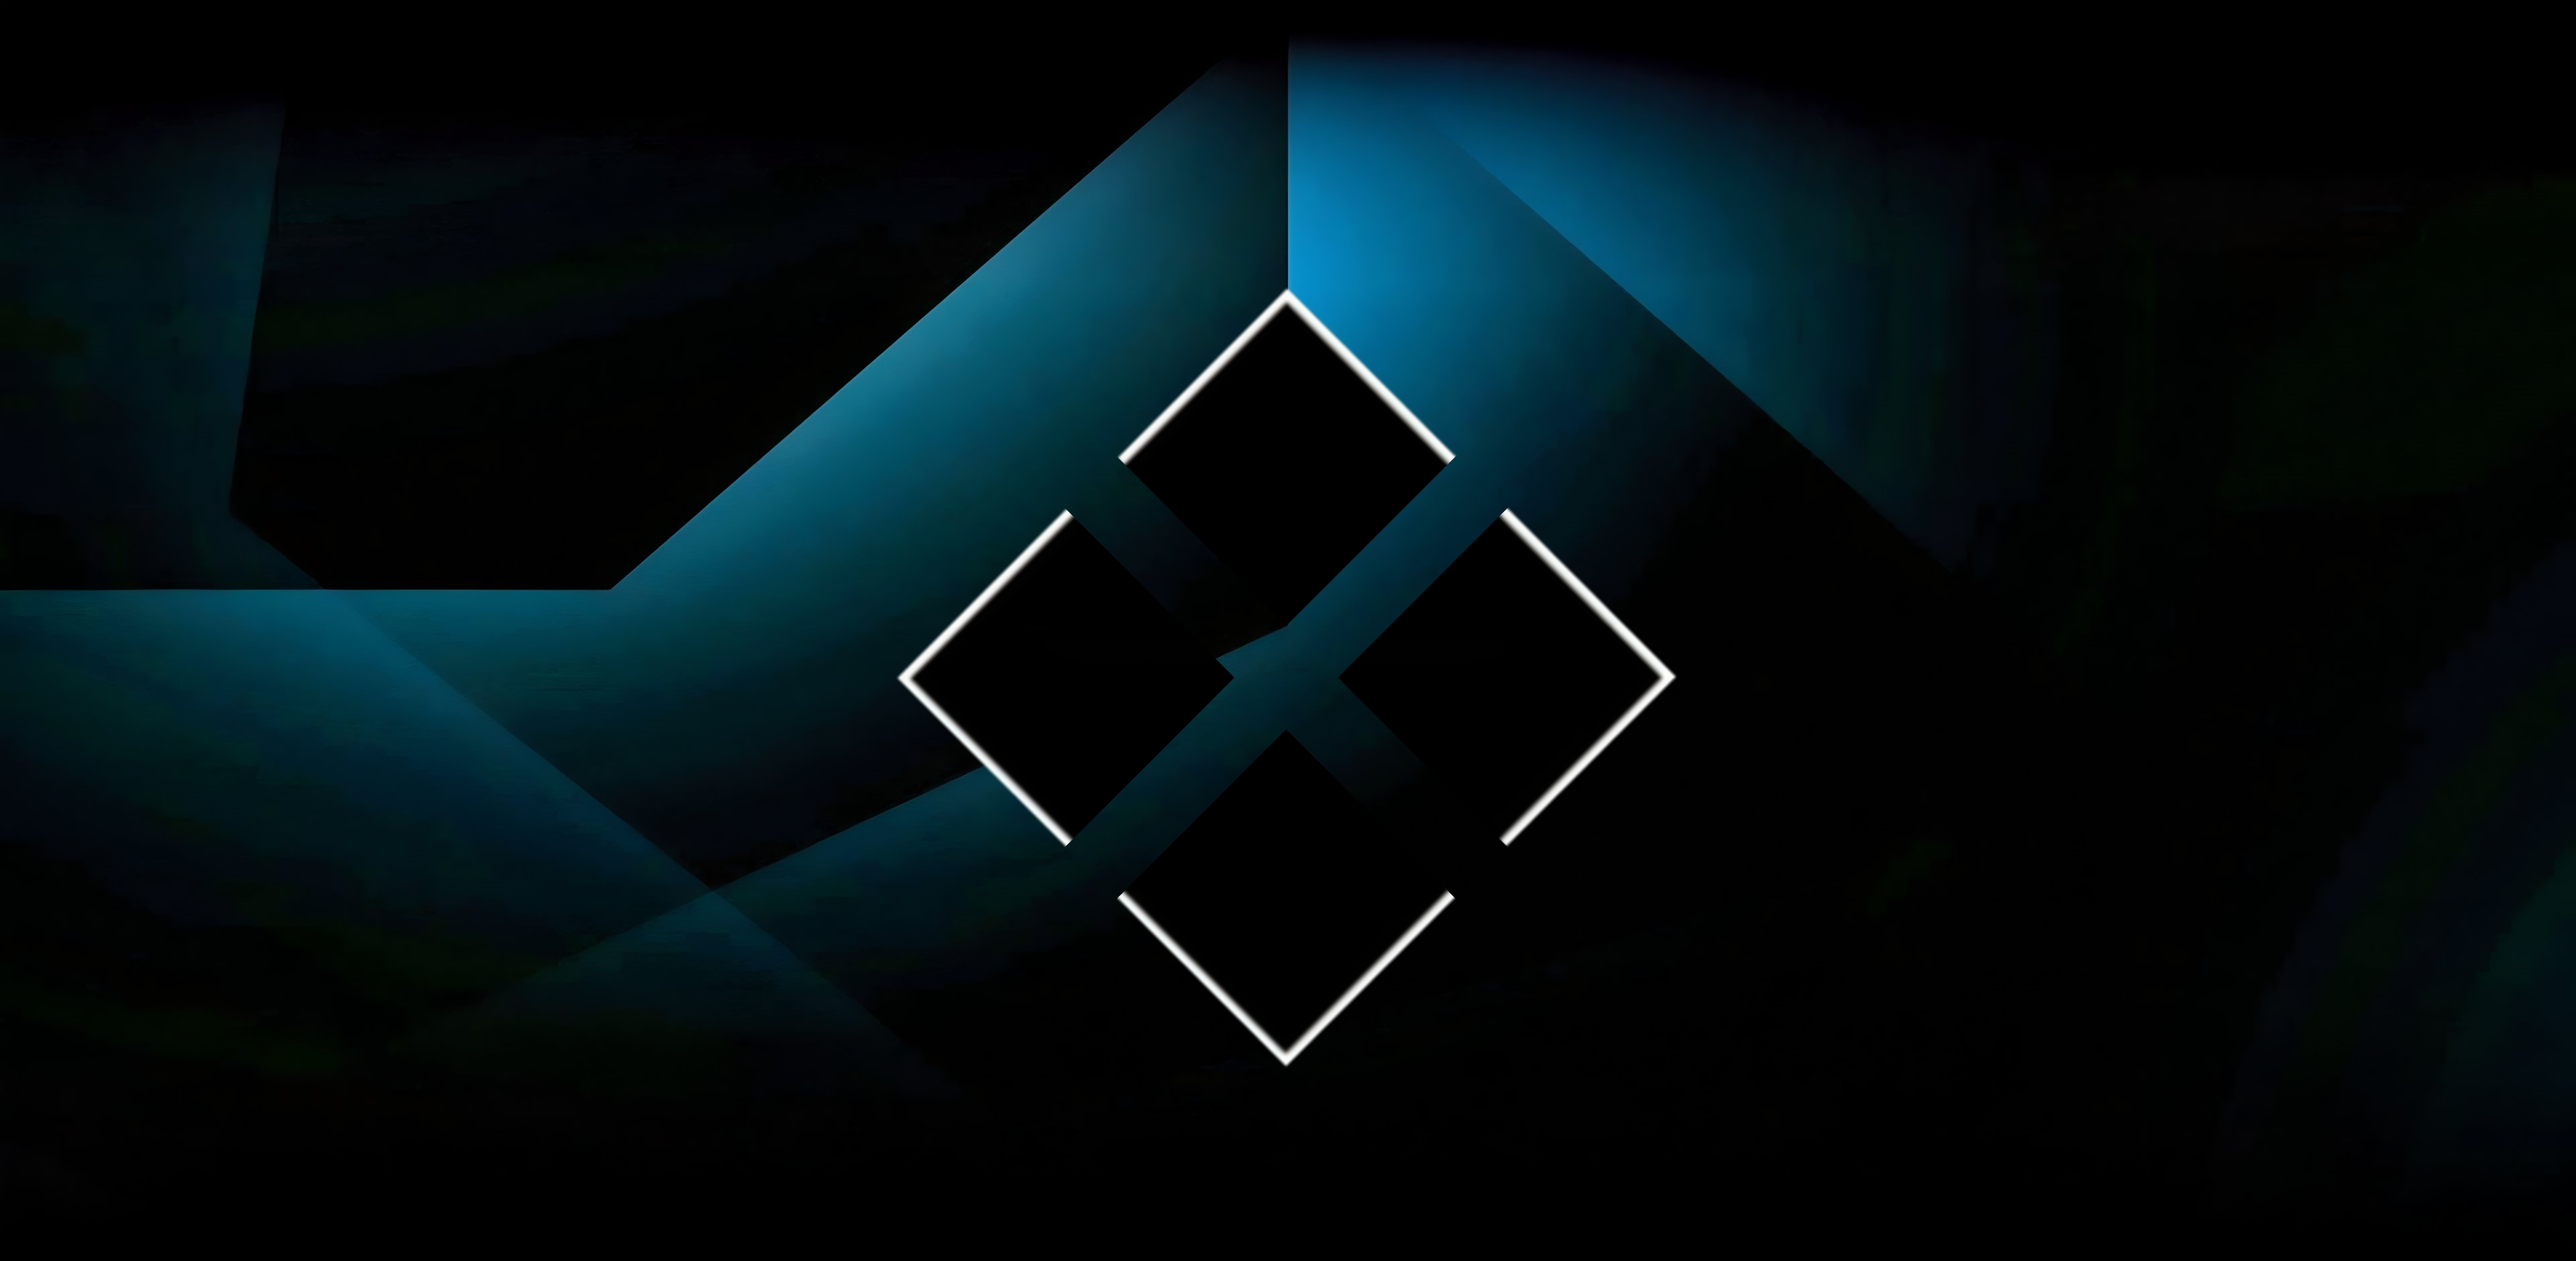
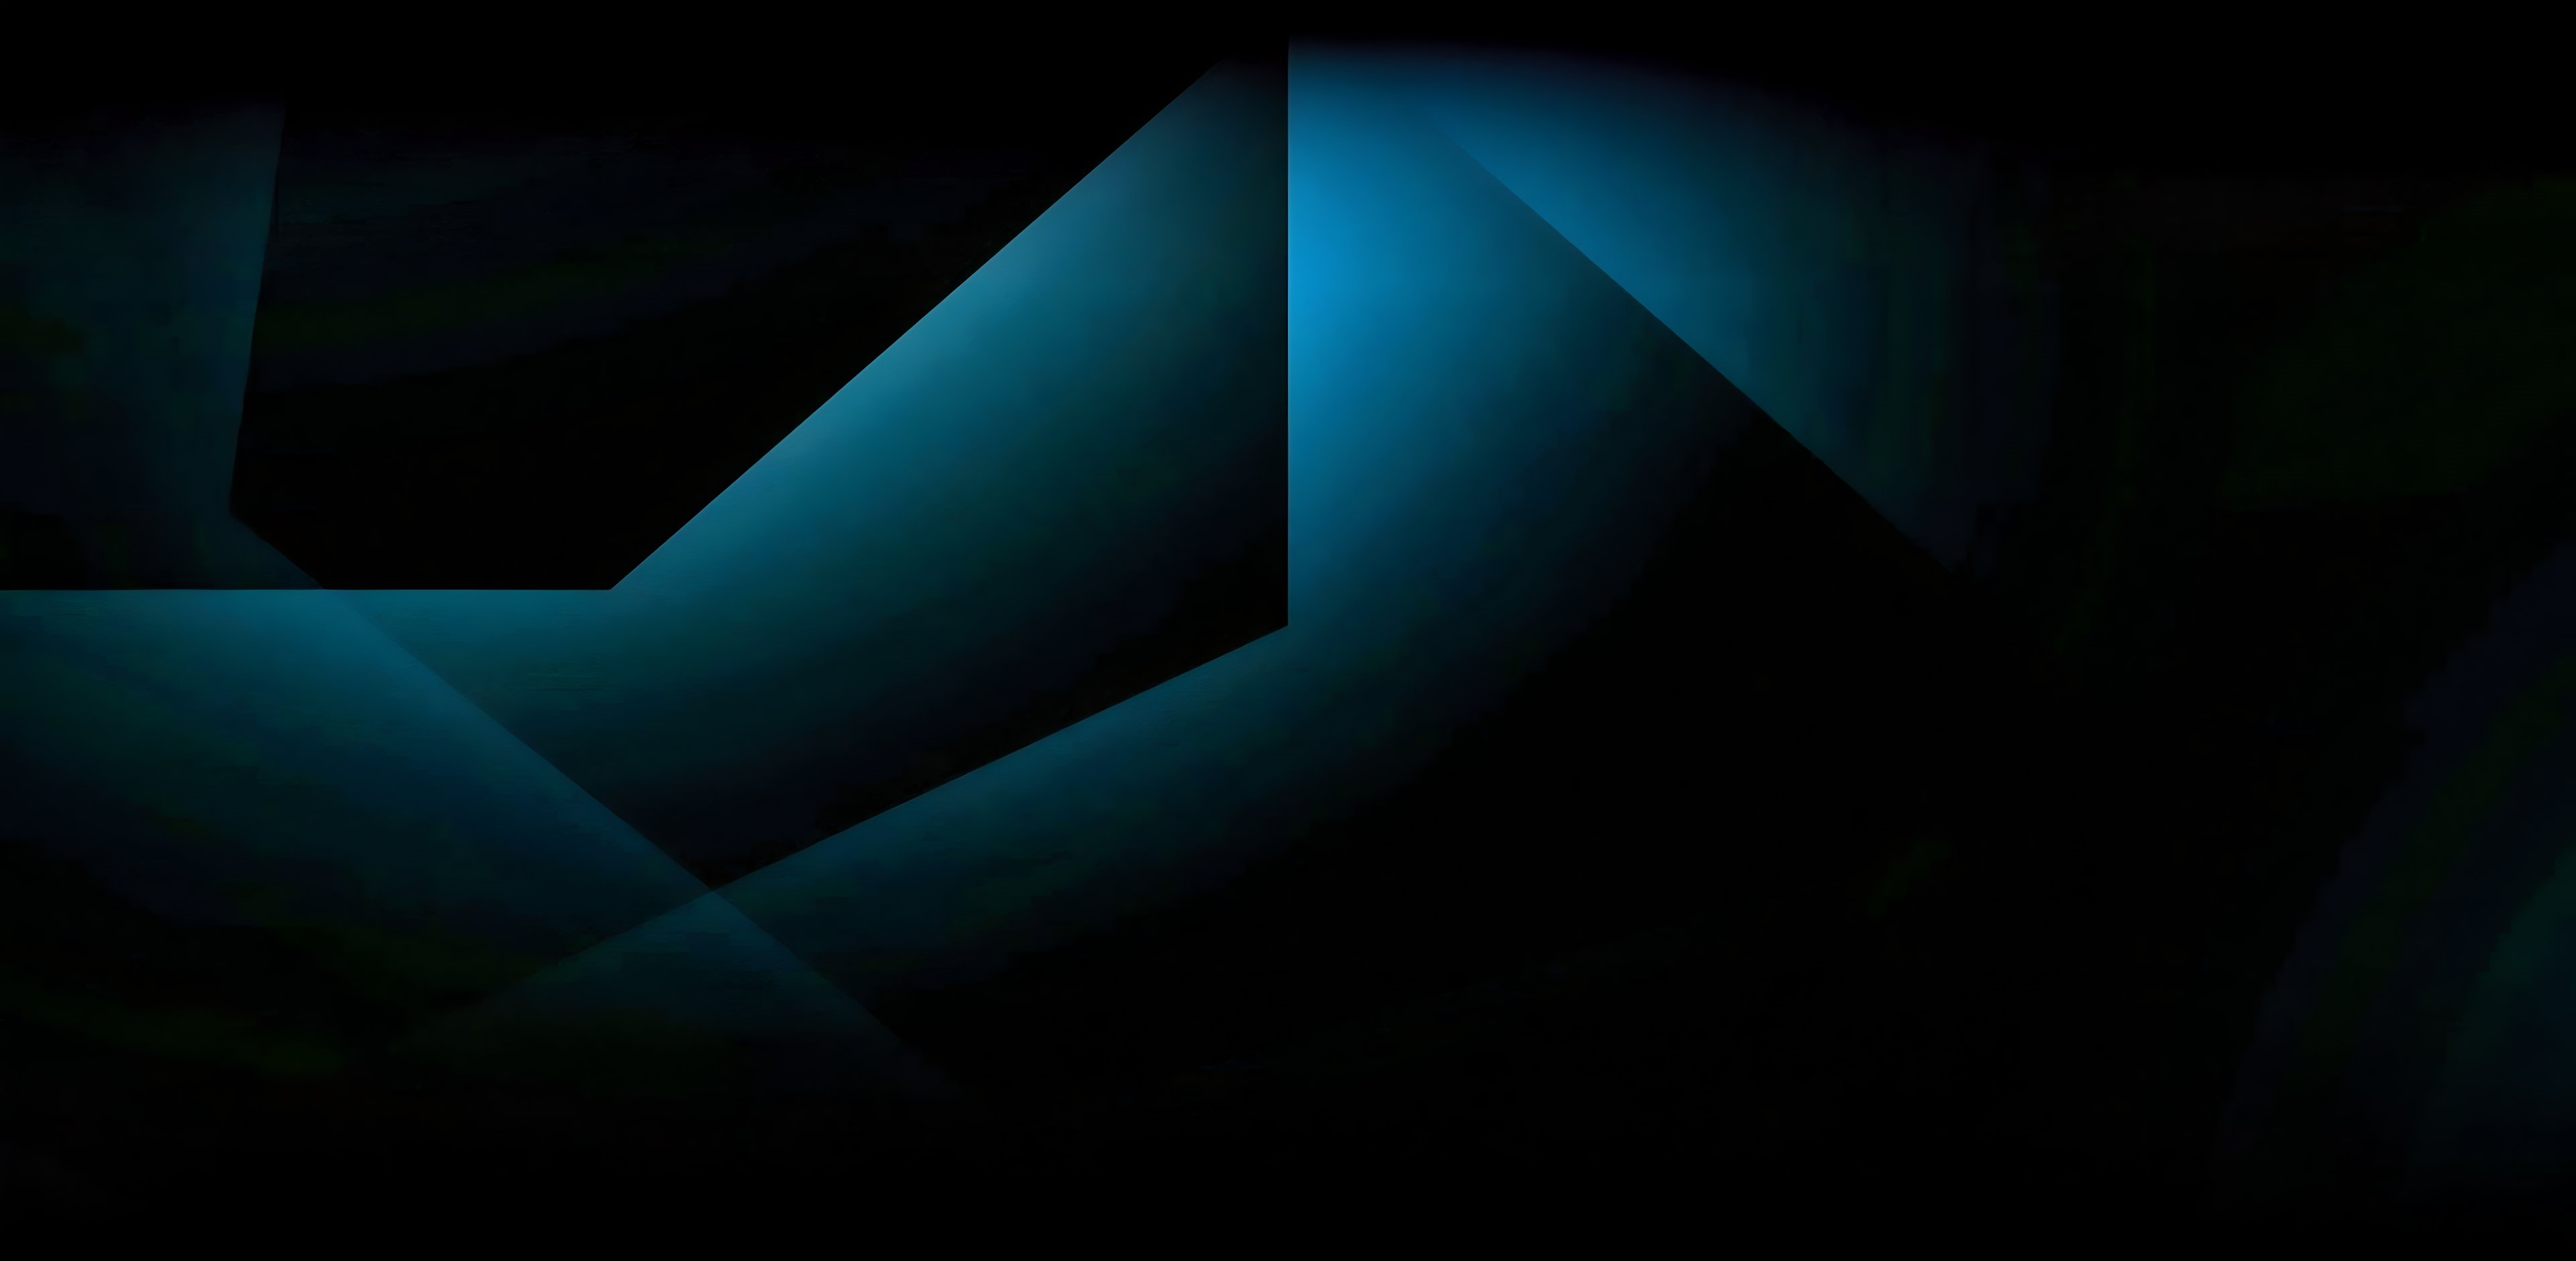
cb20

diff --git a/index.html b/index.html
@@ -62,18 +62,19 @@
         <!-- Contenido de fondo1 -->
         <div class="fondo1 fondos h-screen w-full flex flex-col justify-center z-20">
             <div class="altura1 altura2"></div>
-            <div class="flex flex-col justify-center">
+            <div class="flex flex-col justify-center z-10">
                 <div class="flex justify-center margenbot">
                     <button class="w-8 lg:w-12"><img src="fotos/simbolos/desarrollo.png" alt=""></button>
                 </div>
                 <div class="flex justify-center">
-                        <button class="w-8 lg:w-12 margenright"><img src="fotos/simbolos/hosteleria.png" alt=""></button>
-                        <button class="w-8 lg:w-12 margenleft"><img src="fotos/simbolos/genealogia.png" alt=""></button>
+                    <button class="w-8 lg:w-12 margenright"><img src="fotos/simbolos/hosteleria.png" alt=""></button>
+                    <button class="w-8 lg:w-12 margenleft"><img src="fotos/simbolos/genealogia.png" alt=""></button>
                 </div>
                 <div class="flex justify-center margentop">
                     <button class="w-8 lg:w-12"><img src="fotos/simbolos/musica.png" alt=""></button>
                 </div>
             </div>
+            <img id="rombos" class="z-0 absolute h-4/6 lg:h-full self-center" src="fotos/rombos.png" alt="">
         </div>
 
         <!-- Contenido de fondo2 -->
@@ -168,6 +169,19 @@
                     }
                 });
             }
+
+            const rombosImg = document.getElementById("rombos");
+    const hScreen = window.innerHeight;
+
+    contenedor.addEventListener('scroll', function() {
+        if (contenedor.scrollTop >= hScreen) {
+            rombosImg.classList.remove('fade-in');
+            rombosImg.classList.add('fade-out');
+        } else {
+            rombosImg.classList.remove('fade-out');
+            rombosImg.classList.add('fade-in');
+        }
+    });
 
         });
 

diff --git a/estilos.css b/estilos.css
@@ -24,7 +24,7 @@
     }
 
     .fondo1 {
-        background-image: url('fotos/fondo1movil.jpg');
+        background-image: url('fotos/fondo1.jpg');
     }
 
     .fondo2 {
@@ -53,18 +53,10 @@
         #menu {
             background: transparent;
         }
-
-        .altura2 {
-            height: 7%;
-        }
-
-        .fondo1 {
-            background-image: url('fotos/fondo1.jpg');
-        }
     }
 
 .altura1 {
-    height: 0;
+    height: 4%;
 }
 
 .margenbot {
@@ -81,4 +73,36 @@
 
 .margenleft {
     margin-left: calc(7% + 1px);
+}
+
+@keyframes fadeIn {
+    0% {
+        opacity: 0;
+        visibility: visible;
+    }
+    100% {
+        opacity: 1;
+    }
+}
+
+@keyframes fadeOut {
+    0% {
+        opacity: 1;
+    }
+    100% {
+        opacity: 0;
+        visibility: hidden;
+    }
+}
+
+.fade-in {
+    animation: fadeIn 0.2s forwards;
+}
+
+.fade-out {
+    animation: fadeOut 0.2s forwards;
+}
+
+#rombos {
+    object-fit: cover;
 }
